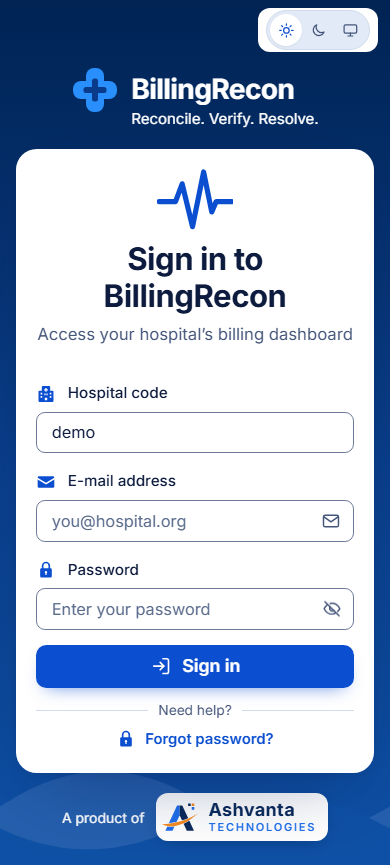
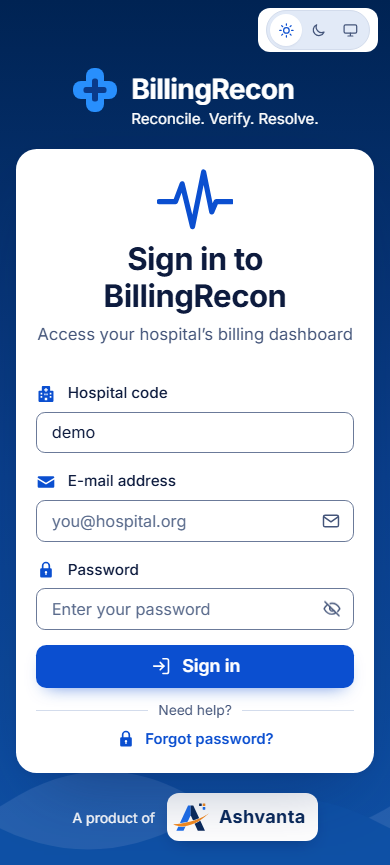
The small credit shows the mark and Ashvanta, without Technologies
In the sidebar and on a sign-in page under 1200 px the credit is the mark with
"Ashvanta" as text; the plate is still named "Ashvanta Technologies" for
assistive technology. The whole logo stays on a wide sign-in page. ADR 0047's
amendment, CLAUDE.md and the build-prompts row follow.

Changed region(s): [[0.1538, 0.9052, 0.8615, 0.9988]]

diff --git a/frontend/src/brand/CompanyCredit.tsx b/frontend/src/brand/CompanyCredit.tsx
@@ -8,9 +8,10 @@ const wideMedia = '(min-width: 1200px)';
 /**
  * The company behind the product (ADR 0047, amended 2026-11-28): Ashvanta Technologies, on a white plate that is the same
  * in both themes, because its logo is drawn for a white ground. At a small size the logo's own "TECHNOLOGIES" and tagline
- * shrink past reading, so the credit is the mark, the file as it is, with the name set beside it as text: "Ashvanta" and
- * "Technologies" stay sharp at any size. With `wide` (the sign-in page) a window of 1200 px or more shows the whole logo
- * instead, large enough for its tagline. The plate is one image to assistive technology, named once.
+ * shrink past reading, so the credit is the mark, the file as it is, with "Ashvanta" beside it as text, sharp at any size
+ * (the owner, 2026-11-28: no "Technologies" when the room is small). With `wide` (the sign-in page) a window of 1200 px
+ * or more shows the whole logo instead, large enough for its tagline. The plate is one image to assistive technology,
+ * named once, "Ashvanta Technologies".
  * `lead` is what stands before it: "A product of" on the sign-in page, "BillingRecon by" at the foot of the sidebar.
  */
 export function CompanyCredit({ lead, wide = false }: { lead: string; wide?: boolean }) {
@@ -23,8 +24,7 @@ export function CompanyCredit({ lead, wide = false }: { lead: string; wide?: boo
           <img className={styles.companyLogo} src={mark} alt="" width="160" height="160" />
         </picture>
         <span className={styles.companyName} aria-hidden="true">
-          <span className={styles.companyWord}>Ashvanta</span>
-          <span className={styles.companyKind}>Technologies</span>
+          Ashvanta
         </span>
       </span>
     </p>

diff --git a/frontend/src/brand/brand.module.css b/frontend/src/brand/brand.module.css
@@ -40,24 +40,10 @@
 }
 
 .companyName {
-  display: flex;
-  flex-direction: column;
-  gap: 0.2rem;
-}
-
-.companyWord {
   font-size: 1.125rem;
   font-weight: 700;
   letter-spacing: 0.02em;
   color: var(--company-ink);
-}
-
-.companyKind {
-  font-size: 0.6875rem;
-  font-weight: 600;
-  letter-spacing: 0.16em;
-  text-transform: uppercase;
-  color: var(--company-accent);
 }
 
 /* The sign-in page on a wide window: the whole logo, its tagline legible, and no text beside it. */

diff --git a/docs/build-prompts.md b/docs/build-prompts.md
@@ -71,7 +71,7 @@ is left; their numbering is mine, not the blueprint's.
 | 11.3 Two-step sign-in and a forgotten password | Stage 7 of the owner's eight stages, in two commits on the owner's approval of the proposal "as recommended" (2026-11-27): our own QR encoder, the BCL's SMTP client, a 24-hour hold after an administrator's reset (review finding R5), forced enrolment with no grace period. **11.3a built 2026-11-27:** the second step by TOTP on the BCL (`Totp`, `SignInTokens`, the claim `step`, `SecondStepGateMiddleware`, `DecisionGateMiddleware`), the secret encrypted under `TwoStep:EncryptionKey`, ten recovery codes, an administrator's reset, the two pages and the QR code drawn by `auth/qr.ts`; migration `0031_SecondStep`, ADR 0061, BR-608 to BR-610, US-50. Verified on LocalDB 2019 and by component tests; no camera has read the QR code here. **11.3b built 2026-11-27:** a forgotten password reset by a link in a mail (`RequestPasswordResetHandler`, `ResetPasswordByLinkHandler`, `PasswordResetTokens`, `MailOutbox`, `MailDispatcher`, the BCL's `SmtpClient` behind `IMailTransport`), optional by `Mail:Host`; three anonymous actions of `AuthController`; the pages `/forgot-password` and `/reset-password`; migration `0032_PasswordResetLink`, ADR 0061 amended, BR-611, US-51. Verified on LocalDB 2019 with the mail server replaced, by component tests and in Edge; the SMTP client was proved by hand against a sink on this machine, and **no mail has been sent to a real server**. Stage 8, Prompt 11.4, is next |
 | 11.4 The accountant's export | Stage 8 of the owner's eight stages, in two commits on the owner's answers (Tally; a voucher for each document; one control ledger; tax to a ledger of its own) and approval of the plan "as recommended" (2026-11-27). **11.4a built 2026-11-27:** the twelve ledger names of a hospital (`AccountingLedgers`, `GET` and `PUT /api/v1/settings/accounting-ledgers`), the vouchers of a period read from the ledger (`AccountingExportReports`), their control totals and the file Tally imports (`TallyVoucherWriter`), the policy `AccountingExport`; migration `0033_AccountingLedgers`, ADR 0062, BR-904, US-52. Verified on LocalDB 2019; the format is confirmed against Tally's documentation in part (ADR 0062 says which part) and **no Tally has imported a file**. **11.4b built 2026-11-27:** the export under Reports, Accounts (the summary, the ledgers without a name, the download of the file) and a fifth tab of Users and settings, Accounts, for the twelve names; verified by component tests and in Edge. **Stage 8 is done, and with it the eight stages of 2026-11-26.** |
 | 12.2 The tables: filters, sort and columns | Given by the owner on 2026-11-27 with TanStack Table decided; plan approved "as recommended", in three commits on `phase-12-tables`. **12.2a built 2026-11-27 (ADR 0063):** the new filters and the named orders of 11 lists and 6 reports, `sort_not_supported` and `filter_invalid`, `GET /api/v1/system/business-date`, migration `0034_ListIndexes`; measured on 100,000 bills (slowest 179 ms). Verified on LocalDB 2019. **12.2b built 2026-11-27:** the shared table on TanStack Table 9.3.1 (DataTable, the "Columns" menu, the filter bar with the date shortcuts from the server, columns kept per user and table) and the five document lists on it; 16 component tests, the browser suite in Edge. **12.2c built 2026-11-27:** every other list, the shifts, the inbox's order, and every report on the shared table; the reports' amount and date filters and header orders; the CSV following the filters and order with every column; print following the columns shown. Verified on the office machine; the run owed is runbook section 8, rows 12.2a to 12.2c. **Prompt 12.2 is done** |
-| The company is Ashvanta Technologies | Decided by the owner on 2026-11-27 (the company is Ashvanta Technologies, not ashline; BillingRecon only, after 12.2c, as its own commit; a clean copy of the logo; the mark alone in the rail). **Built 2026-11-28:** `ashvanta-logo.svg`, `-lockup` and `-mark` replace `ashline-logo.svg`; the credit (the mark with the name as text, legible at any size; the whole logo on a sign-in page of 1200 px or more, the owner's choice of 2026-11-28), the mark in the rail, the `company-*` tokens, CLAUDE.md, the README, ADR 0047 and ADR 0048 amended. The phase 9 prompts below keep the old name as they were given. Verified on the office machine: unit tests, `signin.spec.ts` in Edge, the sign-in screenshots |
+| The company is Ashvanta Technologies | Decided by the owner on 2026-11-27 (the company is Ashvanta Technologies, not ashline; BillingRecon only, after 12.2c, as its own commit; a clean copy of the logo; the mark alone in the rail). **Built 2026-11-28:** `ashvanta-logo.svg`, `-lockup` and `-mark` replace `ashline-logo.svg`; the credit (the mark with "Ashvanta" as text, legible at any size; the whole logo on a sign-in page of 1200 px or more, the owner's choice of 2026-11-28), the mark in the rail, the `company-*` tokens, CLAUDE.md, the README, ADR 0047 and ADR 0048 amended. The phase 9 prompts below keep the old name as they were given. Verified on the office machine: unit tests, `signin.spec.ts` in Edge, the sign-in screenshots |
 
 **Verification is deferred (owner, 2026-11-20): the personal-machine run comes later, and `docs/runbook.md` section 8 is the one running list of every command it owes, in order. Meanwhile every prompt from 2.2 on is committed unverified, one commit per prompt. Phase 3 is written to its end (3.1 to 3.6), and 4.1 (record a payment), 4.2 (allocate a payment to bills), 4.3 (credit notes) and 4.4 (adjustments) are written. Since 2026-11-21 the office machine has the .NET 10 SDK: the whole tip of the branch built and passed there on .NET 10 with LocalDB 2019, and the migrations `0003` to `0015` are in the repository; only the run on SQL Server 2022 in Docker is still owed. 4.5 (reversals), 4.5b (reverse an application of credit) and 4.6 (refunds) are written too, and `0016` and `0017` are in the repository. Phase 4 is written to its end; its branch merge to `main` is the owner's step. 5.1 (users and roles) is written too, and `0018` is in the repository. 5.2 (sign-in and JWT) is written too; it adds no migration. 5.3 was split with its plan: its first half, the role permissions, is written too, with no migration. 5.3b (tenant settings and prefix changes) is written too, and `0019` is in the repository. ADR 0033 built note point 5 was decided on 2026-11-23 (the approval holds the series) and is built as its own commit. 5.4 was split with its plan: its first half, the database logins and grants, is written too, and `0020` is in the repository. 5.4b (HTTP hardening and `docs/security.md` in full) is written too, with no migration; Phase 5 is written to its end, and its merge to `main` is the owner's step. 6.1 (registers and balances), 6.2 (reconciliation and audit trail) and 6.3 (dashboard figures) are written too, with no migration, on `phase-2-billing` like the rest: the backend of R1 is written to its end, and its merge to `main` is the owner's step. 7.1 (the frontend's scaffold and sign-in) is written too, on the same branch, with Node 24 on the office machine. 7.2 (patients, payers and catalogue screens), 7.3 (bill screens), 7.4 (cashier screens) and 7.5 (the checker's inbox, credit notes and adjustments; split with its plan), 7.5b (reports) and 7.6 (dashboard) are written too: the frontend of R1 is written to its end. 8.1 (one-command local run) is written too, on `phase-8-delivery`, and so are 8.2 (performance and browser tests) and 8.3 (release R1, tagged `v1.0.0`): R1 is written to its end. On 2026-11-24 the owner reported the first run on the personal machine: `docker compose up --build` with the demo, and `dotnet test` with Docker, which passed; its output is still to be sent, so the rows of runbook section 8 stay until then. No prompt is left in R1. Phase 9, the interface, has begun: 9.1 (the brand, the tokens and the sign-in page) is written, without the photograph, which is still to come, and so are 9.2 (the shell and the shared components) and 9.3 (the money screens' shared components, bills, credit notes and adjustments); and 9.3b (payments, refunds, the statement and the inbox) is written too; and 9.4 (the dashboard and its tooltips) is written too; and so is 9.4b (the reports, print, the finishing pass and the release): Phase 9 is written, `v1.1.0` proposed; what else follows is in `docs/backlog.md` and the release plan of CLAUDE.md. What was decided for each built prompt is in `docs/build-history.md` since 2026-11-26 (it stood under each prompt below until then).**
 

diff --git a/CLAUDE.md b/CLAUDE.md
@@ -20,7 +20,7 @@ gapless numbering, immutable postings, maker-checker approval and a complete aud
 must not come back). The product is credited as "A product of Ashvanta Technologies" and "BillingRecon by Ashvanta
 Technologies". The logo is `frontend/src/assets/brand/ashvanta-logo.svg`, a clean copy of the owner's file (presentation
 attributes for its inline styles, its C2PA manifest removed, the drawing unchanged) that is never redrawn;
-`ashvanta-lockup.svg` (the wide sign-in page) and `ashvanta-mark.svg` (the credit, with the name as text, and the
+`ashvanta-lockup.svg` (the wide sign-in page) and `ashvanta-mark.svg` (the credit, with "Ashvanta" as text, and the
 rail) are the same drawing with a tighter viewBox. Navy #0B2A5B, blue #1F6FEB, orange #F58A1F (ADR 0047 and ADR
 0048, amended 2026-11-28).
 
@@ -97,7 +97,7 @@ React + TypeScript + Vite in `frontend/` (ADR 0038, Prompt 7.1). Node 22.22 or l
 | Tests | **Vitest**, jsdom, React Testing Library | The API faked by a `fetch` given to the client (`src/test/app.tsx`); no mocking package. Vitest reads `src/` only. |
 | Browser journey (ADR 0046) | **Playwright** 1.65.1 | `e2e/journey.spec.ts`, its own `tsconfig.e2e.json`, `npm run e2e`; against https://localhost by default (`E2E_BASE_URL`), Chromium or an installed browser (`E2E_BROWSER_CHANNEL`); a console error on any page fails the step, the browser's `/favicon.ico` excepted. |
 | Lint and format | **ESLint 9** (type-aware TypeScript, hooks, `jsx-a11y`, no `dangerouslySetInnerHTML`), **Prettier** | ESLint stays on 9 until `jsx-a11y` supports 10. Warnings are errors. One `eslint-disable`, in a test, with its reason. |
-| Brand and tokens (ADR 0047) | Inter, self-hosted; our own icons; the sign-in page | Since Prompt 9.1 `tokens.css` holds, for both themes, the brand's blues, the sign-in page's ground, shadows, radii, spacing, type sizes and durations; a token's name holds no CSS colour word (the scan reads it as one). Inter comes from `@fontsource-variable/inter`, bundled and served from our origin, with a metric-matched fallback. Icons are `src/brand/Icon.tsx` (inline SVG, `currentColor`); `BrandMark` is the product's mark, `CompanyCredit` the mark of Ashvanta Technologies with its name as text on a white plate (the whole logo on a sign-in page of 1200 px or more), `CompanyMark` the mark alone in the rail. The sign-in page is laid out in the pixels of `docs/ui/sign-in.png` (`--u`), animates only transform and opacity, and nothing with reduced motion. `VITE_SUPPORT_EMAIL` (from `SUPPORT_EMAIL` in `.env`) is the sign-in page's "Contact support". Since 9.2 (ADR 0048): the shell has a sidebar with an icon per section, a rail (kept in `localStorage`) and a drawer under 900 px; the theme is a pill of three (`ThemeToggle`, a radio group named "Theme"); a page change names the tab and focuses the heading; badges carry an icon from `components/tones.ts`; loading is a skeleton (`LoadState`), an empty list an `EmptyState`; `/design`, the specimen of the shared components, exists in Development builds only. Since 9.3 (ADR 0049): money is `formatMoney` and `<Money>` (a sign and a word for a credit or a negative amount); every status of every document is one mapping, `components/documentStatuses.ts`, with its word, tone and icon; a document's totals are `TotalsCard` (an estimate says so; a changed figure is marked); a document's state is a `Banner`; the audit trail is a timeline; a field may carry its unit and a required mark. Since 9.3b: allocating and applying credit show `ApplyMeter`; the statement's four figures are tiles; the inbox is a list of cards. Since 9.4 (ADR 0050): one tooltip (`dashboard/Tooltip.tsx`: `TipBox`, `Tip`; `useChartTip` for Recharts) on `--surface-popover` and `--border-strong`, opened by hover, focus and tap, closed by Escape, blur and a second tap; the donut is drawn here; every chart has its table; the period is a segmented control; no inline style on the dashboard. Since 9.4b: every route (and the shell) loads on demand within budgets that `npm run budgets` holds in CI; a report's table keeps its header and totals in view; print on A4 (`@media print` in `tokens.css`, `base.css` and the modules); `e2e/routes.spec.ts` runs every route with axe. |
+| Brand and tokens (ADR 0047) | Inter, self-hosted; our own icons; the sign-in page | Since Prompt 9.1 `tokens.css` holds, for both themes, the brand's blues, the sign-in page's ground, shadows, radii, spacing, type sizes and durations; a token's name holds no CSS colour word (the scan reads it as one). Inter comes from `@fontsource-variable/inter`, bundled and served from our origin, with a metric-matched fallback. Icons are `src/brand/Icon.tsx` (inline SVG, `currentColor`); `BrandMark` is the product's mark, `CompanyCredit` the mark of Ashvanta Technologies with "Ashvanta" as text on a white plate (the whole logo on a sign-in page of 1200 px or more), `CompanyMark` the mark alone in the rail. The sign-in page is laid out in the pixels of `docs/ui/sign-in.png` (`--u`), animates only transform and opacity, and nothing with reduced motion. `VITE_SUPPORT_EMAIL` (from `SUPPORT_EMAIL` in `.env`) is the sign-in page's "Contact support". Since 9.2 (ADR 0048): the shell has a sidebar with an icon per section, a rail (kept in `localStorage`) and a drawer under 900 px; the theme is a pill of three (`ThemeToggle`, a radio group named "Theme"); a page change names the tab and focuses the heading; badges carry an icon from `components/tones.ts`; loading is a skeleton (`LoadState`), an empty list an `EmptyState`; `/design`, the specimen of the shared components, exists in Development builds only. Since 9.3 (ADR 0049): money is `formatMoney` and `<Money>` (a sign and a word for a credit or a negative amount); every status of every document is one mapping, `components/documentStatuses.ts`, with its word, tone and icon; a document's totals are `TotalsCard` (an estimate says so; a changed figure is marked); a document's state is a `Banner`; the audit trail is a timeline; a field may carry its unit and a required mark. Since 9.3b: allocating and applying credit show `ApplyMeter`; the statement's four figures are tiles; the inbox is a list of cards. Since 9.4 (ADR 0050): one tooltip (`dashboard/Tooltip.tsx`: `TipBox`, `Tip`; `useChartTip` for Recharts) on `--surface-popover` and `--border-strong`, opened by hover, focus and tap, closed by Escape, blur and a second tap; the donut is drawn here; every chart has its table; the period is a segmented control; no inline style on the dashboard. Since 9.4b: every route (and the shell) loads on demand within budgets that `npm run budgets` holds in CI; a report's table keeps its header and totals in view; print on A4 (`@media print` in `tokens.css`, `base.css` and the modules); `e2e/routes.spec.ts` runs every route with axe. |
 | Packages | 31, pinned exactly (Recharts added by 7.6, `@playwright/test` by 8.2, `@fontsource-variable/inter` by 9.1, `@axe-core/playwright` by 9.4b), `package-lock.json` committed | `npm ci` in CI; `npm audit` fails on any advisory; Dependabot a week after a release. A new package needs approval (section 6). |
 
 ### Delivery

diff --git a/docs/adr/0047-brand-design-tokens-and-the-sign-in-page.md b/docs/adr/0047-brand-design-tokens-and-the-sign-in-page.md
@@ -98,14 +98,14 @@ change what a screen does, load anything from another origin, or loosen nginx's 
 The owner said on 2026-11-27 that the company is **Ashvanta Technologies**, not ashline, and gave its logo. Point 6 now
 reads: the logo is `src/assets/brand/ashvanta-logo.svg`, a clean copy of the owner's file (its inline style attributes
 turned into presentation attributes, its C2PA manifest removed, the drawing unchanged) that is never redrawn.
-At the size of a credit the logo's own "TECHNOLOGIES" and tagline shrink to 4 or 5 px, past reading (the owner, 2026-11-28,
-chose this answer of three): the credit is the mark alone, `ashvanta-mark.svg` (the same drawing with a viewBox around
-the letter A), with the name set beside it as text, "Ashvanta" in the navy and "TECHNOLOGIES" in the blue, legible at
-any size. On the sign-in page a window of 1200 px or more shows instead the whole logo, `ashvanta-lockup.svg` (the same
-drawing with a viewBox that leaves out the empty margin of its plate), 24rem wide so that its tagline can be read, and
-no text beside it (a `<picture>` source, no script). Either sits on a white plate of its own (`--company-plate:
-#ffffff`), the same in both themes; the plate is one image to assistive technology, "Ashvanta Technologies", named
-once. The sign-in page says "A product of" and the credit, bottom left.
-The `company-*` tokens are the logo's colours as drawn: ink navy #0B2A5B and accent blue #1F6FEB, the colours of the
-name's two words, both at least 4.5:1 on the plate (`contrast.test.ts`); its orange #F58A1F is only in the drawing.
+At the size of a credit the logo's own "TECHNOLOGIES" and tagline shrink to 4 or 5 px, past reading. The owner chose
+(2026-11-28) the mark alone, `ashvanta-mark.svg` (the same drawing with a viewBox around the letter A), with "Ashvanta"
+beside it as text in the navy, legible at any size, and no "Technologies" in that small room; the plate is still named
+"Ashvanta Technologies". On the sign-in page a window of 1200 px or more shows instead the whole logo,
+`ashvanta-lockup.svg` (the same drawing with a viewBox that leaves out the empty margin of its plate), 24rem wide so that
+its tagline can be read, and no text beside it (a `<picture>` source, no script). Either sits on a white plate of its
+own (`--company-plate: #ffffff`), the same in both themes; the plate is one image to assistive technology, "Ashvanta
+Technologies", named once. The sign-in page says "A product of" and the credit, bottom left.
+The `company-*` tokens are the logo's colours as drawn: ink navy #0B2A5B (the name beside the mark) and accent blue
+#1F6FEB, both at least 4.5:1 on the plate (`contrast.test.ts`); its orange #F58A1F is only in the drawing.
 `ashline-logo.svg` is deleted, and ashline is not named in the product again.
